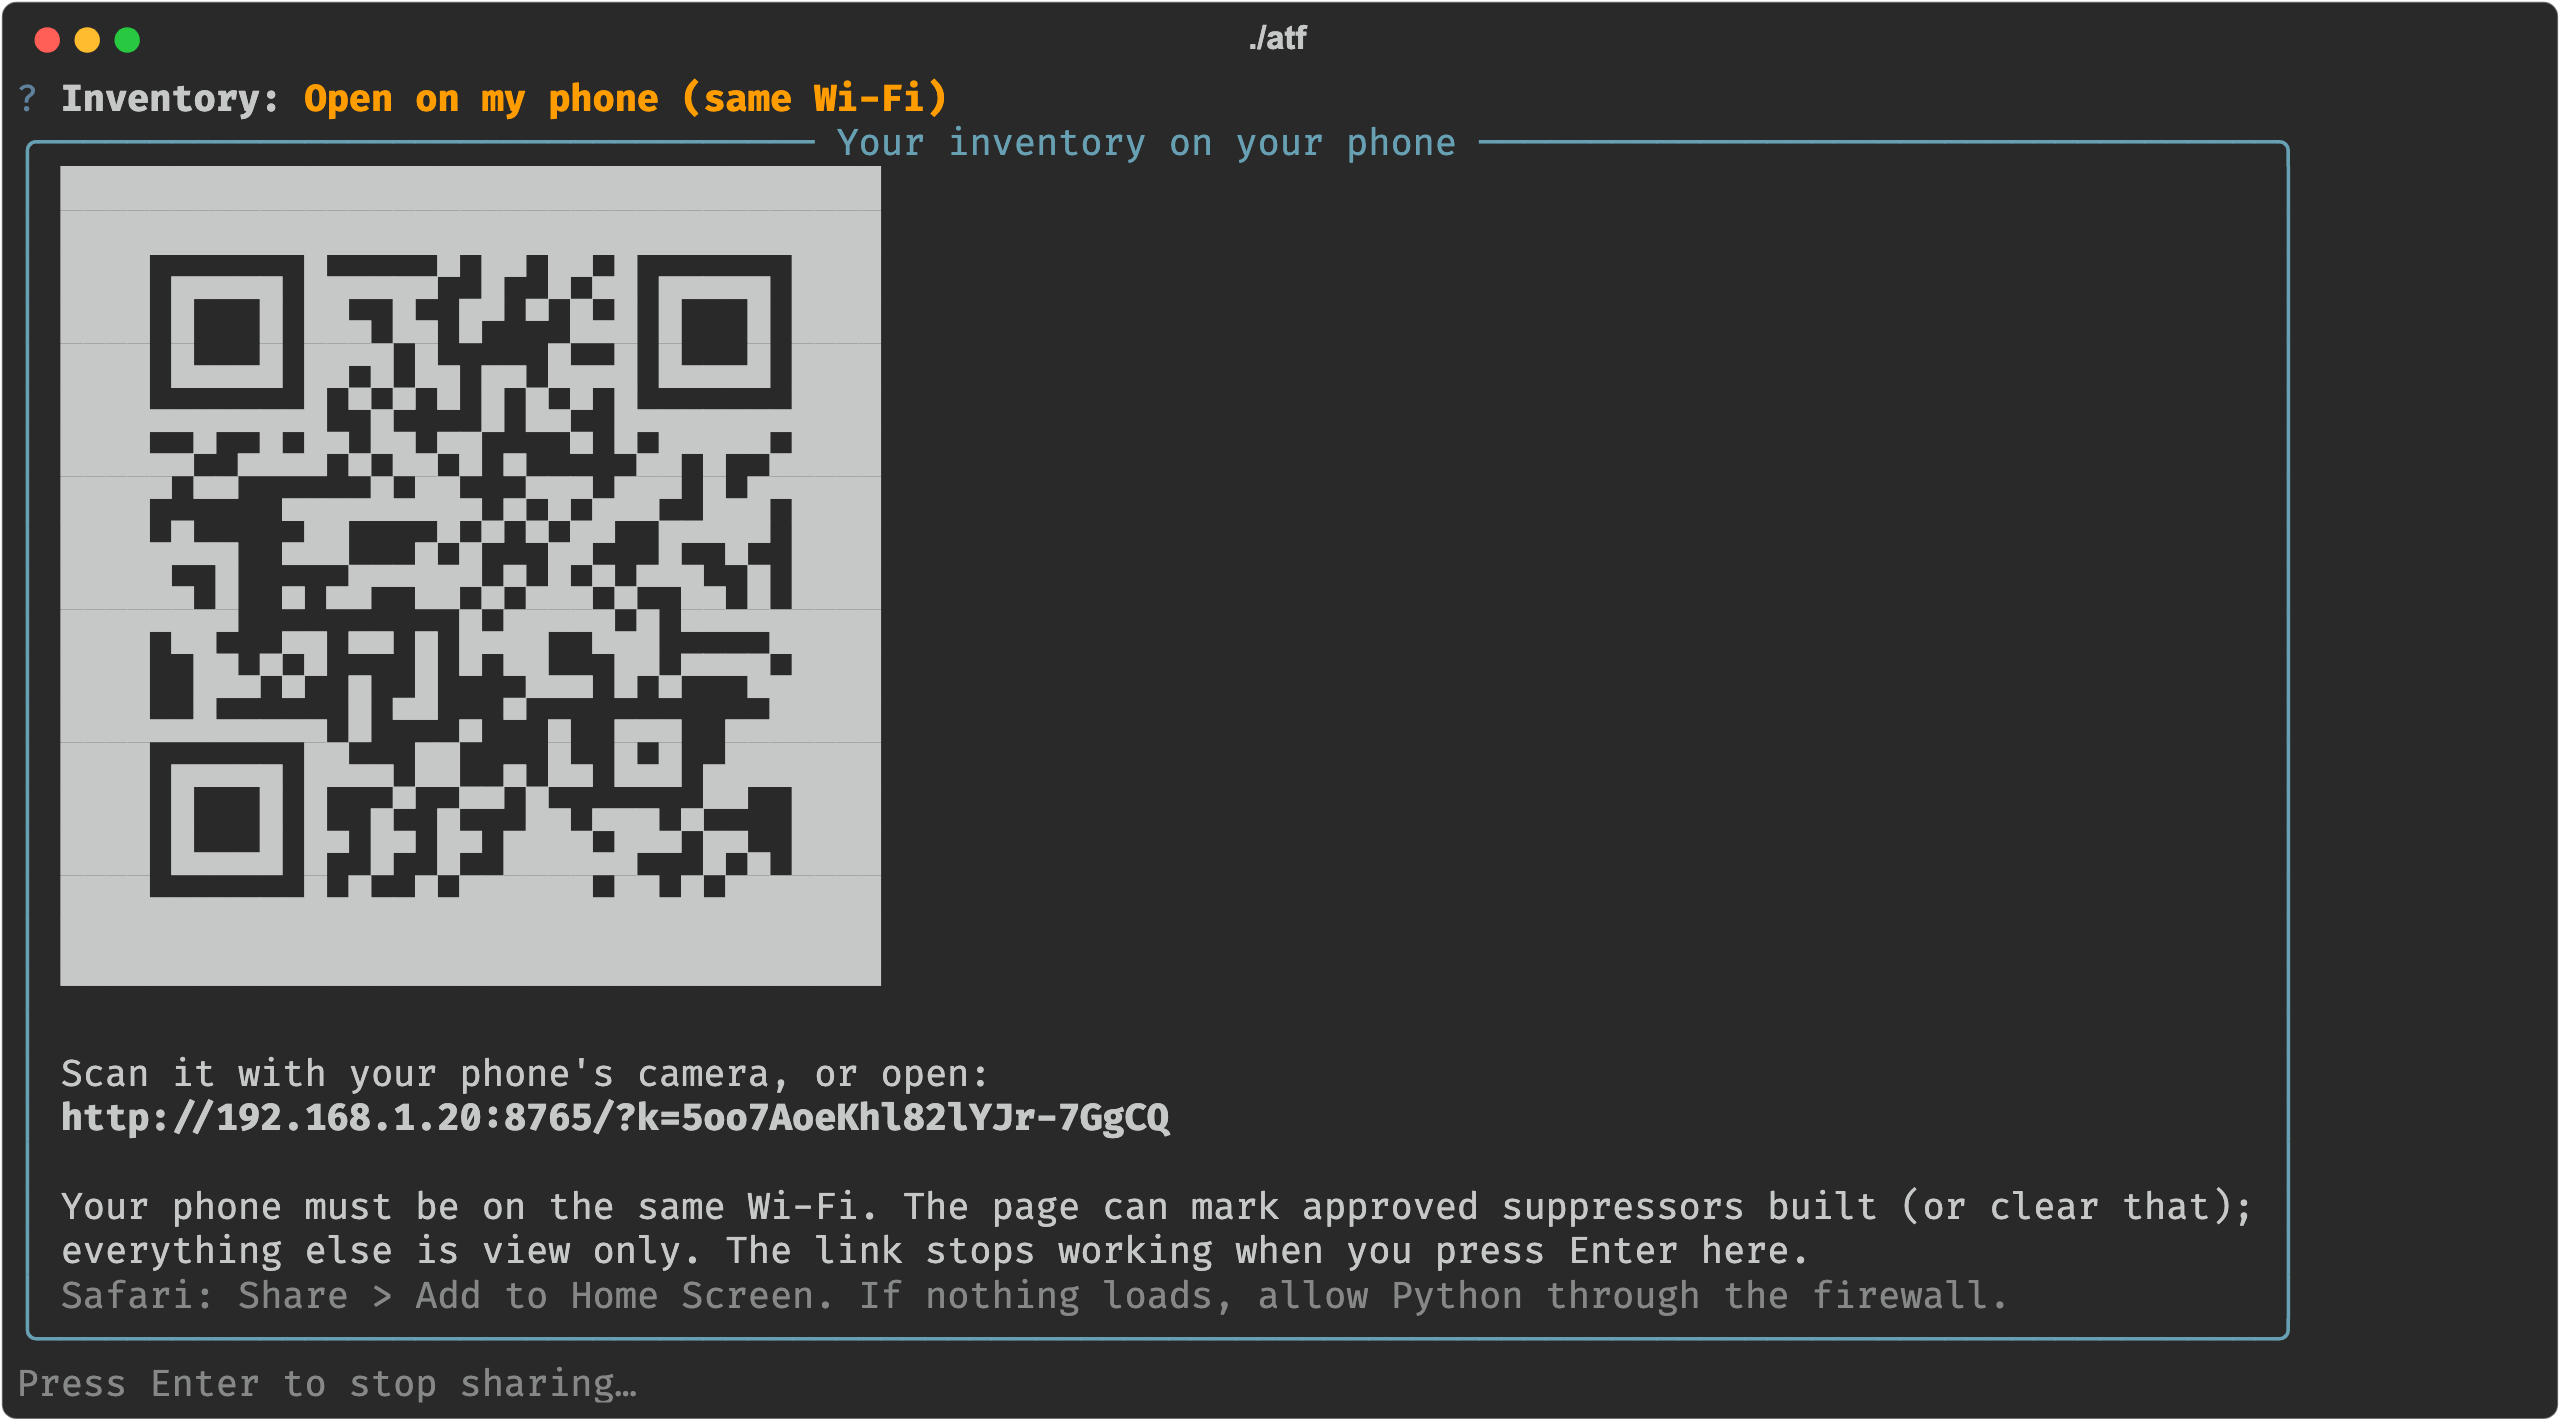
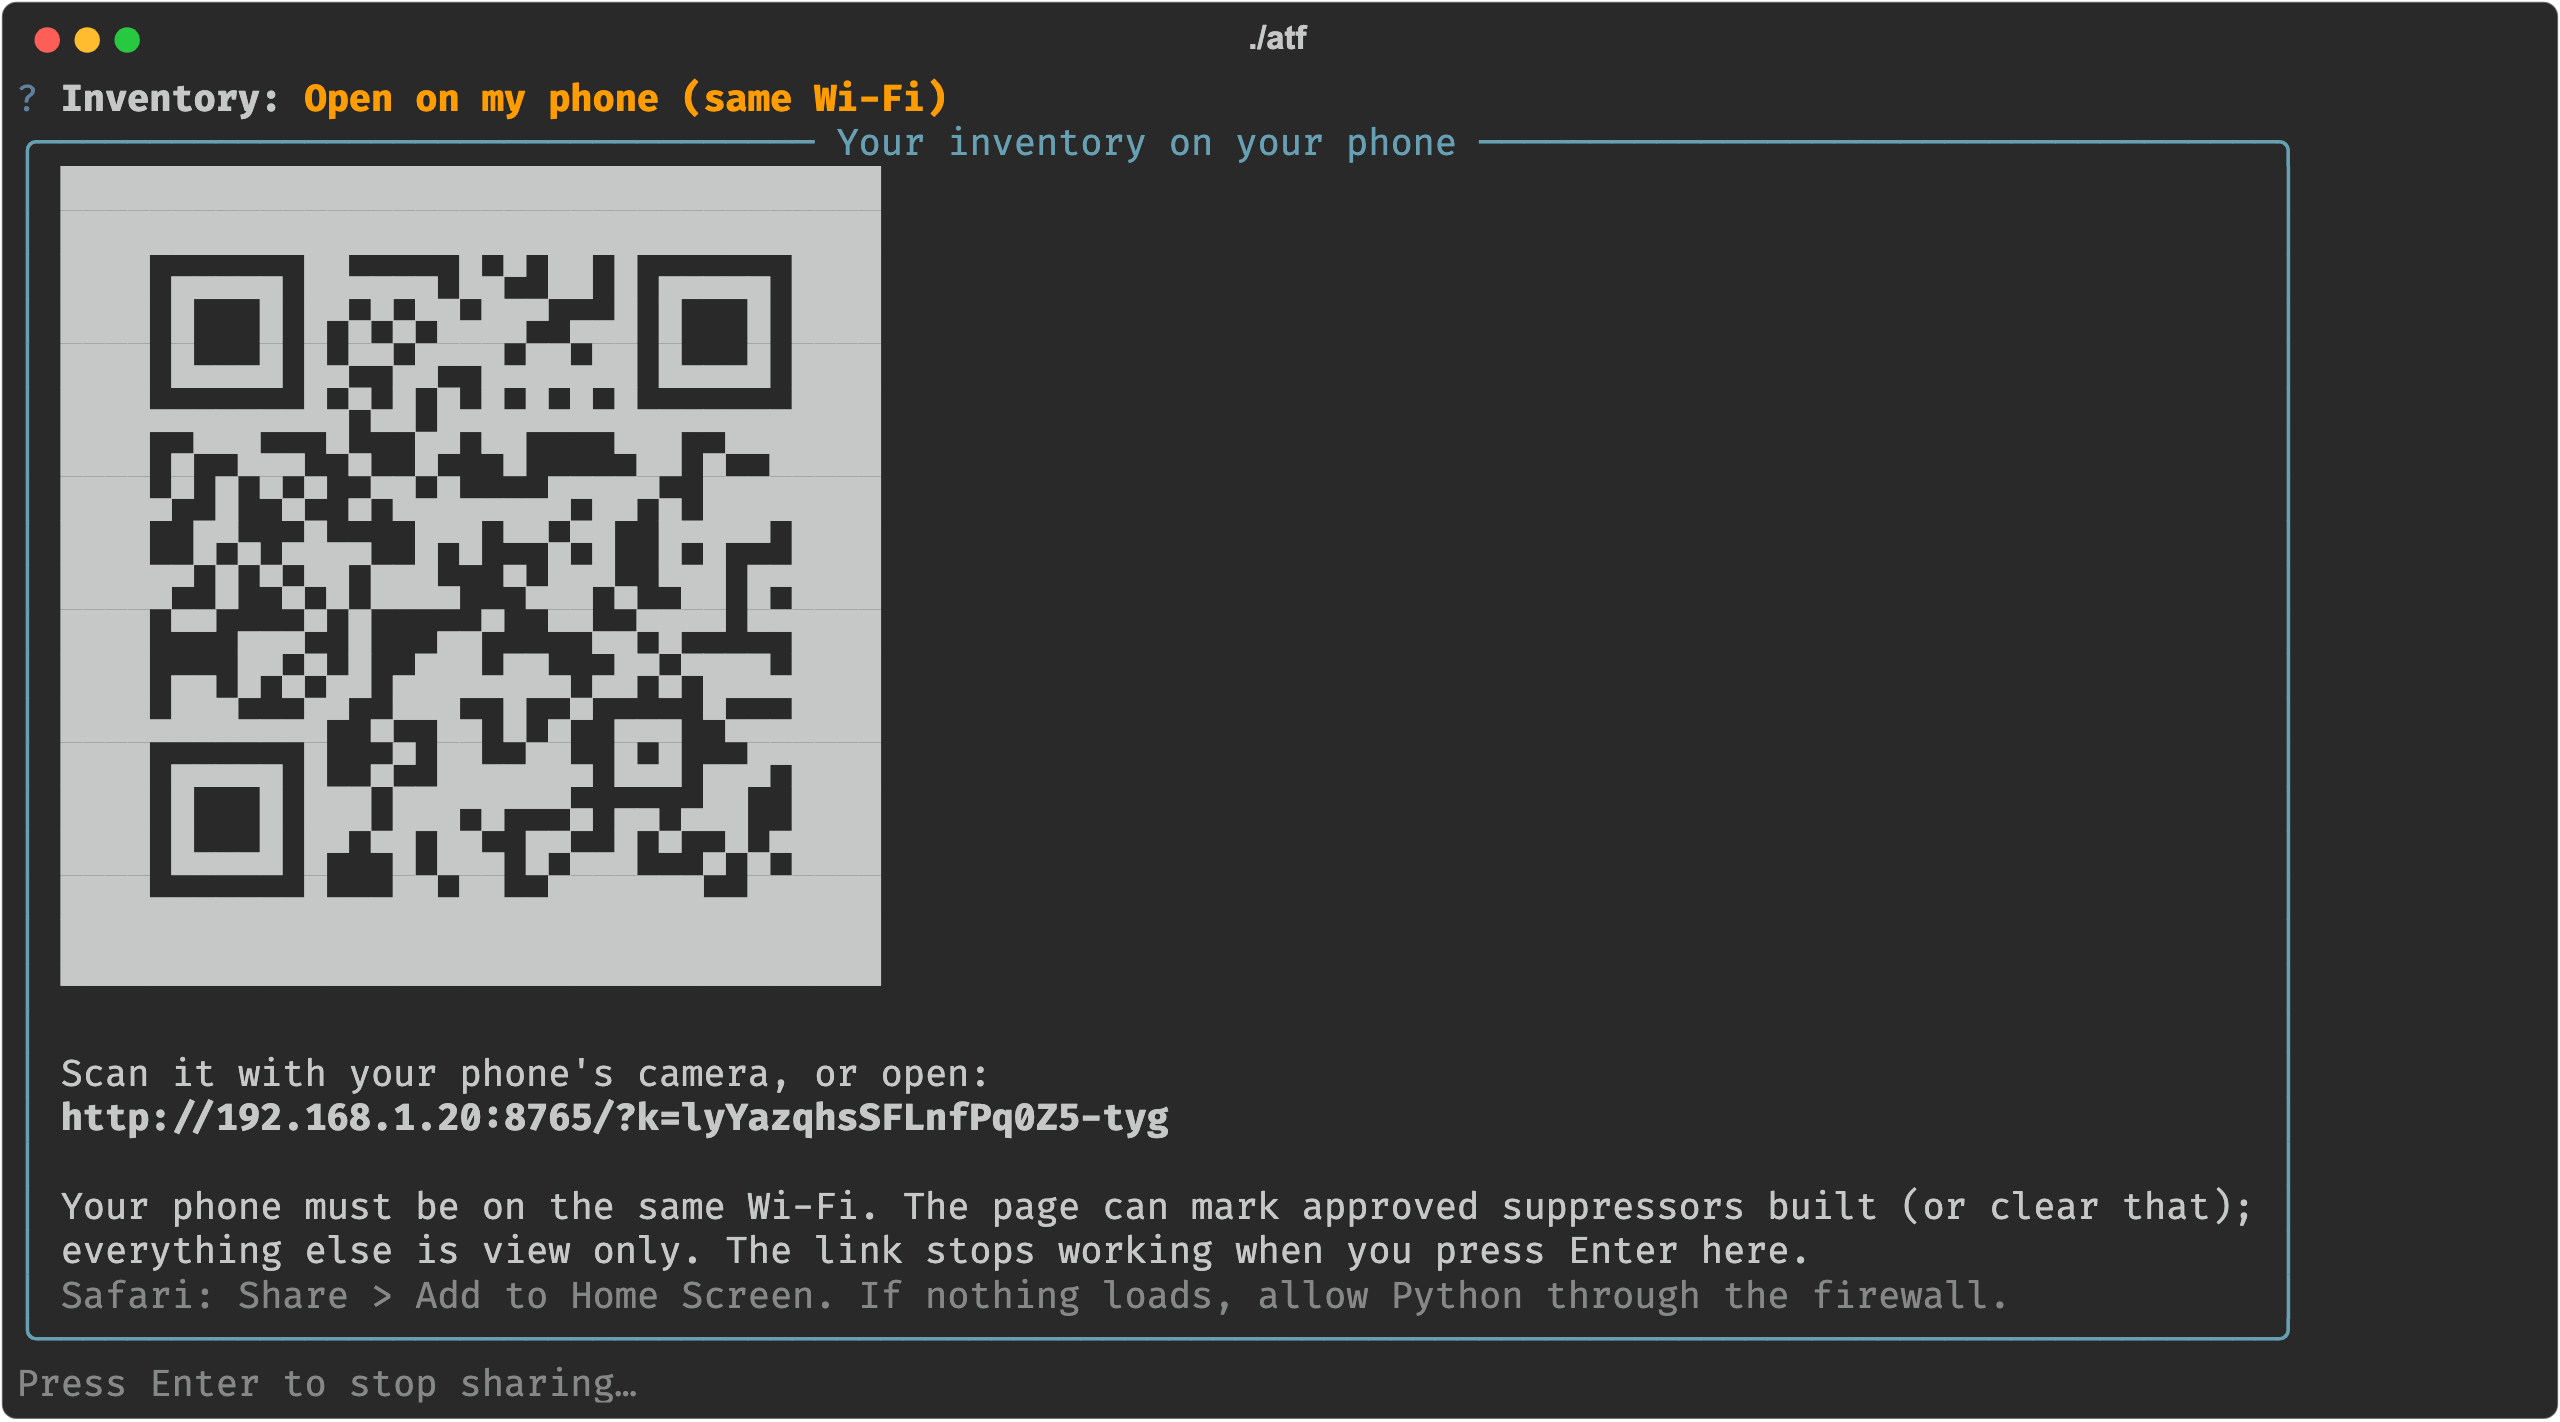
v1.1.0: phone page, Check my setup, optional inventory server
Version 1.1.0 (home screen, --version) and its CHANGELOG section: the
phone page, Check my setup, and the optional inventory server, with what
has been tested for real and what hasn't. Screenshots regenerated (the
home title shows the version). The server's install steps use the
release instead of the server branch.

Changed region(s): [[0.0312, 0.1547, 0.3125, 0.6498], [0.25, 0.7736, 0.4688, 0.8045]]

diff --git a/src/atf.py b/src/atf.py
@@ -43,7 +43,7 @@ from pathlib import Path
 import yaml
 from pypdf import PdfReader
 
-__version__ = "1.0.0"  # bump with each release; CHANGELOG.md says what changed
+__version__ = "1.1.0"  # bump with each release; CHANGELOG.md says what changed
 
 ROOT = Path(__file__).resolve().parent.parent
 DATA, OUT, FORMS = ROOT / "data", ROOT / "out", ROOT / "forms"

diff --git a/CHANGELOG.md b/CHANGELOG.md
@@ -7,29 +7,104 @@ To update: with Git, `git pull` in the folder, then run `./install.sh` (Windows:
 requirements changed. Without Git, download the new release's ZIP and copy your `data`, `forms` and `out` folders into
 the new copy.
 
-## Unreleased
+## 1.1.0 (2026-10-28)
 
-### New
-- **Settings > Check my setup** (and `./atf check-setup`): checks, without opening eForms, that your settings are
-  complete; that every file (fingerprints, photo, trust document, supporting documents, each responsible person's) is
-  there, readable, the right kind and not an online-only OneDrive/iCloud copy; that each 5320.23 template stamps
-  correctly; that the browser is installed; and that the inventory isn't open in Excel or waiting on a pending row.
-  Individuals now get a small Settings menu too (All settings, Check my setup).
-- **Your inventory on your phone** (Inventory > Open on my phone, or `./atf serve`): scan the QR code on the same
-  Wi-Fi to see your inventory, search by a serial's digits or a design, open approval PDFs, and mark approved
-  suppressors built (with their design) or clear that, while you walk through your safes. Served from your computer
-  only while it's open; nothing goes to the internet. **Run the installer again** after updating (`./install.sh`,
-  Windows `.\install.cmd`) for the QR code; without it the link is printed instead.
-- **Optional inventory server** (`server/`; see [server/README.md](server/README.md)). Completely optional: nothing
-  changes unless you set one up. For keeping your inventory in one place on an always-on machine at home (Proxmox,
-  Docker, Linux): daily backups and restore, a history of every change (builds excepted: when something was built is
-  never recorded), the phone page always available to every paired phone with live updates, and the same inventory on
-  every paired device. Settings > **Where your inventory lives** connects the helper (pairing code, certificate
-  check), moves your inventory there (checked field by field first; **Try it first** changes nothing) and back.
-  Filing and Check approvals work with it, with extra safety: the server must confirm "pending" before Sign & Submit,
-  and filing results are kept on your computer until the server has them. Home network only: no internet, no
-  Tailscale or VPN needed (optional for away from home). Tested on a Proxmox container with an iPhone and a Mac,
-  including a real move and a real filing; Check approvals through the server and Windows not yet tried for real.
+Your inventory on your phone, a setup checker, and an **optional** inventory server for keeping your records on a
+machine at home. Nothing changes in how you file unless you choose the server.
+
+**Updating:** `git pull`, then run the installer again (`./install.sh`, Windows `.\install.cmd`): there's one new
+package (`segno`, for the QR code). Your settings, inventory and files carry over unchanged.
+
+### New: your inventory on your phone
+**Inventory > Open on my phone** (or `./atf serve`) shows your inventory in your phone's browser while you walk
+through your safes and bags. Nothing to set up: the helper shows a QR code, you scan it on the same Wi-Fi.
+
+- Search by typing a serial's digits on the number pad (`83` finds A083), or switch to letters (ABC) to search by
+  design, caliber or model.
+- Filters: All, Built, Not built, Waiting, Queued, SBRs. A summary line: how many suppressors, built, not built, SBRs.
+- Each suppressor's details: caliber, length, filed and approval dates, the last 4 digits of its application number
+  and eForm ID, any approval conditions, and its **approval PDF**.
+- **Built** switch with the design, for approved suppressors (the only thing the page can change). Turning it off
+  asks on the page first (Keep it / Clear).
+- One screen at a time on a phone (the phone's back button and swipe return to the list), list and details side by
+  side on a wider screen. Safari's Share > Add to Home Screen gives it an icon.
+- It works only while you leave it open in the helper, with a new key in the link each time, and nothing goes to the
+  internet. If the phone can't connect, allow Python through your computer's firewall.
+
+### New: Check my setup
+**Settings > Check my setup** (and `./atf check-setup`, which also shows the file paths) checks, without opening
+eForms:
+- that your settings are complete;
+- every file (fingerprints, photo, trust document, supporting documents, each responsible person's): there,
+  readable, the right kind (an EFT that looks like one, a JPG/PNG photo), and not an online-only OneDrive/iCloud
+  placeholder;
+- that each 5320.23 template (yours and each responsible person's) stamps correctly;
+- that the browser is installed, and that the helper's folder isn't inside a syncing cloud folder;
+- that the inventory isn't open in Excel and has no pending row waiting to be resolved.
+
+Individuals now get a Settings menu too (All settings, Check my setup).
+
+### New, optional: an inventory server
+**You don't need it, and most people won't want it.** For people who'd rather keep their inventory in one place on
+an always-on machine at home, with backups and a phone page that's always there. Full details:
+[server/README.md](server/README.md). Without a server, the only thing you'll see is a new line in Settings, **Where
+your inventory lives (this computer)**.
+
+- **Runs on your own hardware, on your home network:** Docker Compose on a NAS or any Linux machine
+  ([server/DOCKER.md](server/DOCKER.md)), or a Proxmox container ([server/LXC.md](server/LXC.md)). No cloud, no port
+  forwarding, no internet. A VPN such as Tailscale is optional (for the phone page away from home); nothing needs it.
+- **One inventory for every device:** the helper and every paired phone read and write the same records, with no
+  syncing. Open pages update by themselves when something changes.
+- **Your records, protected:** a database that enforces the rules itself (one row per serial, one application number
+  each, only approved suppressors can be built, filed and approved rows can't be edited as queued); two devices can't
+  overwrite each other (a stale change is refused and you're shown the current row); daily backups (30 kept) and a
+  one-line restore.
+- **A history of every change**, with the device that made it. **Builds excepted:** when something was built or
+  un-built is never recorded anywhere (no history entry, no timestamp, no log line); only whether it's built and its
+  design are kept.
+- **The phone page, always on**, for every paired phone, with history, live updates, Devices (add one with a 6-digit
+  code, remove a lost one) and a CSV export. Each phone trusts the server's own certificate once (the page walks you
+  through it), then opens it with no warnings. That certificate authority can only vouch for home-network addresses.
+- **Connecting the helper:** Settings > Where your inventory lives > Connect to my server (its address, a fingerprint
+  to compare, a pairing code). Test the connection, or switch back to this computer at any time.
+- **Moving your inventory there:** **Try it first** sends everything, checks every field of every row and every
+  approval PDF, and takes it back: nothing changes. **Move it now** switches over only on an exact match, and keeps
+  your computer's files (renamed `suppressors.moved-to-server-<date>.csv`). Switching back offers to copy the
+  server's inventory to your computer first, checked the same way.
+- **Filing and Check approvals with a server**, with extra safety: before the browser opens, the server must answer
+  and every suppressor must still be queued there (if the phone changed one, nothing starts); just before Sign &
+  Submit, the server must confirm "pending" or nothing is signed; each filing result is written to a file on your
+  computer before it's sent, so a server that goes away mid-batch never loses one (it's sent again automatically,
+  once, and the batch waits). Approvals, SBRs and new approval PDFs go to the server.
+- **If the server can't be reached:** the helper shows the last inventory it saw, marked offline and read-only, and
+  changes and filing wait.
+- What never goes to the server: your settings, 5320.23 templates, fingerprints, photos, trust document, eForms login,
+  and of course your password, SSN, codes and PIN (stored nowhere).
+
+### Changed
+- **README** reorganised: getting set up, using it (by task), your records, the optional server, troubleshooting,
+  with a contents line. New: the phone page with screenshots (four new ones).
+- **Settings** has a new item, **Where your inventory lives**.
+- Inside the helper, adding, editing and removing queued suppressors, resolving a pending row, and the moment a
+  filing is marked pending and then filed now go through one place each (so they work the same with or without a
+  server). What they do without a server is unchanged; the automated tests cover it.
+
+### Tested
+- **For real:** the phone page on an iPhone (Safari); Check my setup on a Mac; the inventory server in a Proxmox
+  container with an iPhone and a Mac: pairing, trusting its certificate, builds from the phone (also in a basement
+  away from the computer), moving a real inventory onto it, a backup restored as a drill, a practice run and a real
+  filing through it.
+- **Automated** (on every change, on Windows with Python 3.9, 3.13 and 3.14, and on Linux): the whole helper, the
+  phone page in Chrome's and Safari's engines, and the server (its rules, moving an inventory there and back, filing
+  against a fake eForms with the server refusing at each step), including the server's Docker image starting up.
+- **Not yet tried for real:** Check approvals through the server; the server with Docker on a NAS or Docker Desktop;
+  the server with a Windows PC or an Android phone; a real filing without a server on this version (the changed
+  parts are covered by the automated tests).
+
+### For developers
+- `tools/scan_personal.py` and git hooks (`git config core.hooksPath .githooks`) keep personal values from your own
+  records out of commits and commit messages (the repository is public).
+- Tests always run in a temporary folder and fail if your real `data/` folder changes.
 
 ## 1.0.0 (2026-10-27)
 

diff --git a/server/LXC.md b/server/LXC.md
@@ -32,7 +32,7 @@ In the container's console:
 apt update && apt install -y git python3-venv curl
 useradd --system --home /var/lib/atf-inventory --create-home atf
 git clone https://github.com/SK360/eforms-form1.git /opt/atf-inventory
-cd /opt/atf-inventory && git checkout server
+cd /opt/atf-inventory
 python3 -m venv server/.venv && server/.venv/bin/pip install -r server/requirements.txt
 cp server/atf-inventory.service /etc/systemd/system/
 systemctl daemon-reload && systemctl enable --now atf-inventory

diff --git a/server/DOCKER.md b/server/DOCKER.md
@@ -17,9 +17,7 @@ try it, an issue saying how it went helps.
 
 ```bash
 git clone https://github.com/SK360/eforms-form1.git atf-inventory
-cd atf-inventory
-git checkout server            # until the server is part of a release
-cd server
+cd atf-inventory/server
 ```
 
 Open `compose.yaml` and put **your machine's address** in `ATF_NAMES` (and, if you like, a name your router gives
